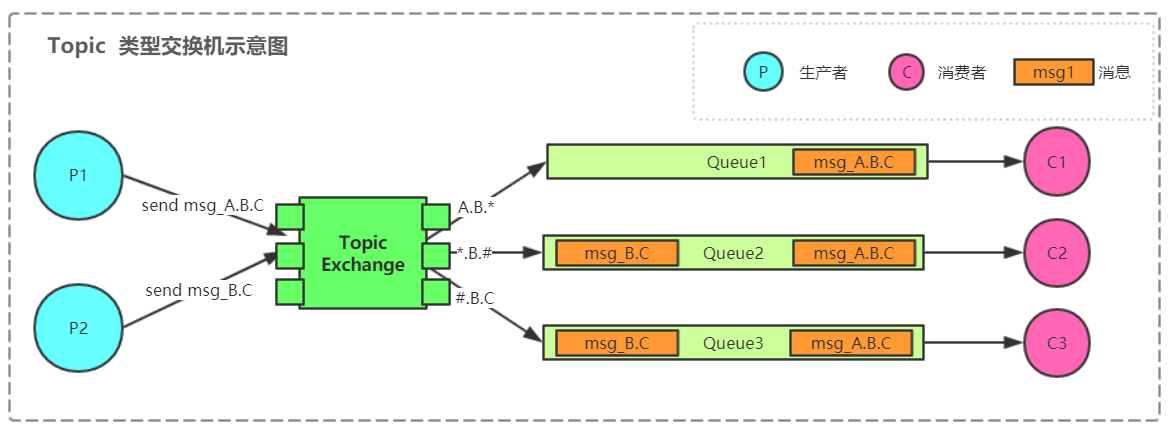
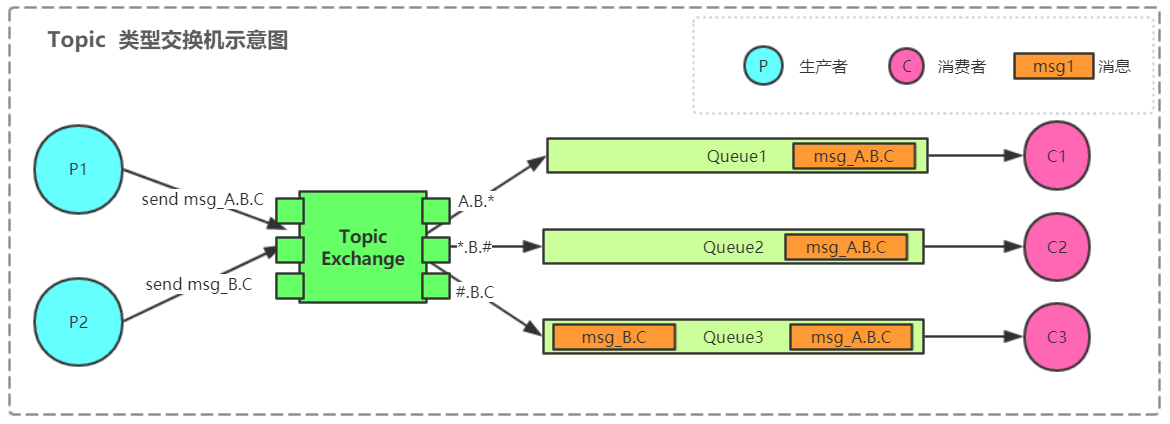
:sparkles: 添加rabbitmq topic 路由方式实现

diff --git a/rabbitmq/rabbitmq-chapter1-simple/src/main/java/com/wuhulala/rabbitmq/chapter1/exchange/topic/TopicConsumer2.java b/rabbitmq/rabbitmq-chapter1-simple/src/main/java/com/wuhulala/rabbitmq/chapter1/exchange/topic/TopicConsumer2.java
@@ -1,0 +1,40 @@
+package com.wuhulala.rabbitmq.chapter1.exchange.topic;
+
+import com.rabbitmq.client.AMQP;
+import com.rabbitmq.client.Channel;
+import com.rabbitmq.client.Consumer;
+import com.rabbitmq.client.DefaultConsumer;
+import com.rabbitmq.client.Envelope;
+import com.wuhulala.rabbitmq.chapter1.util.ChannelFactory;
+
+import java.io.IOException;
+
+import static com.wuhulala.rabbitmq.chapter1.exchange.topic.Constants.C_ROUTING_KEY_2;
+import static com.wuhulala.rabbitmq.chapter1.exchange.topic.Constants.TOPIC_EXCHANGE_NAME;
+
+public class TopicConsumer2 {
+
+    public static final String QUEUE_NAME = "queue2";
+
+
+    public static void main(String[] args) throws Exception {
+
+        Channel channel = ChannelFactory.getChannelInstance();
+
+        //创建queue2队列
+        channel.queueDeclare(QUEUE_NAME, false, false, false, null);
+        System.out.println("consumer2 Waiting for msg use routingKey[" + C_ROUTING_KEY_2  + "]");
+        //创建消费者，并接受消息
+        Consumer consumer = new DefaultConsumer(channel) {
+            @Override
+            public void handleDelivery(String consumerTag, Envelope envelope, AMQP.BasicProperties properties, byte[] body)
+                    throws IOException {
+                String msg = new String(body, "UTF-8");
+                System.out.println("consumer2 -> Received is = '" + msg + "'");
+            }
+        };
+        channel.queueBind(QUEUE_NAME, TOPIC_EXCHANGE_NAME, C_ROUTING_KEY_2);
+        channel.basicConsume(QUEUE_NAME, true, consumer);
+    }
+
+}

diff --git a/rabbitmq/rabbitmq-chapter1-simple/src/main/java/com/wuhulala/rabbitmq/chapter1/exchange/topic/TopicConsumer3.java b/rabbitmq/rabbitmq-chapter1-simple/src/main/java/com/wuhulala/rabbitmq/chapter1/exchange/topic/TopicConsumer3.java
@@ -1,0 +1,40 @@
+package com.wuhulala.rabbitmq.chapter1.exchange.topic;
+
+import com.rabbitmq.client.AMQP;
+import com.rabbitmq.client.Channel;
+import com.rabbitmq.client.Consumer;
+import com.rabbitmq.client.DefaultConsumer;
+import com.rabbitmq.client.Envelope;
+import com.wuhulala.rabbitmq.chapter1.util.ChannelFactory;
+
+import java.io.IOException;
+
+import static com.wuhulala.rabbitmq.chapter1.exchange.topic.Constants.C_ROUTING_KEY_3;
+import static com.wuhulala.rabbitmq.chapter1.exchange.topic.Constants.TOPIC_EXCHANGE_NAME;
+
+public class TopicConsumer3 {
+
+    public static final String QUEUE_NAME = "queue3";
+
+
+    public static void main(String[] args) throws Exception {
+
+        Channel channel = ChannelFactory.getChannelInstance();
+
+        //创建queue3队列
+        channel.queueDeclare(QUEUE_NAME, false, false, false, null);
+        System.out.println("consumer3 Waiting for msg use routingKey[" + C_ROUTING_KEY_3  + "]");
+        //创建消费者，并接受消息
+        Consumer consumer = new DefaultConsumer(channel) {
+            @Override
+            public void handleDelivery(String consumerTag, Envelope envelope, AMQP.BasicProperties properties, byte[] body)
+                    throws IOException {
+                String msg = new String(body, "UTF-8");
+                System.out.println("consumer3 -> Received is = '" + msg + "'");
+            }
+        };
+        channel.queueBind(QUEUE_NAME, TOPIC_EXCHANGE_NAME, C_ROUTING_KEY_3);
+        channel.basicConsume(QUEUE_NAME, true, consumer);
+    }
+
+}

diff --git a/rabbitmq/rabbitmq-chapter1-simple/src/main/java/com/wuhulala/rabbitmq/chapter1/exchange/topic/TopicConsumer1.java b/rabbitmq/rabbitmq-chapter1-simple/src/main/java/com/wuhulala/rabbitmq/chapter1/exchange/topic/TopicConsumer1.java
@@ -1,0 +1,39 @@
+package com.wuhulala.rabbitmq.chapter1.exchange.topic;
+
+import com.rabbitmq.client.AMQP;
+import com.rabbitmq.client.Channel;
+import com.rabbitmq.client.Consumer;
+import com.rabbitmq.client.DefaultConsumer;
+import com.rabbitmq.client.Envelope;
+import com.wuhulala.rabbitmq.chapter1.util.ChannelFactory;
+
+import java.io.IOException;
+
+import static com.wuhulala.rabbitmq.chapter1.exchange.topic.Constants.C_ROUTING_KEY_1;
+import static com.wuhulala.rabbitmq.chapter1.exchange.topic.Constants.TOPIC_EXCHANGE_NAME;
+
+public class TopicConsumer1 {
+
+    public static final String QUEUE_NAME = "queue1";
+
+    public static void main(String[] args) throws Exception {
+
+        Channel channel = ChannelFactory.getChannelInstance();
+
+        //创建queue1队列
+        channel.queueDeclare(QUEUE_NAME, false, false, false, null);
+        System.out.println("consumer1 Waiting for msg use routingKey[" + C_ROUTING_KEY_1  + "]");
+        //创建消费者，并接受消息
+        Consumer consumer = new DefaultConsumer(channel) {
+            @Override
+            public void handleDelivery(String consumerTag, Envelope envelope, AMQP.BasicProperties properties, byte[] body)
+                    throws IOException {
+                String msg = new String(body, "UTF-8");
+                System.out.println("consumer1 -> Received is = '" + msg + "'");
+            }
+        };
+        channel.queueBind(QUEUE_NAME, TOPIC_EXCHANGE_NAME, C_ROUTING_KEY_1);
+        channel.basicConsume(QUEUE_NAME, true, consumer);
+    }
+
+}

diff --git a/rabbitmq/rabbitmq-chapter1-simple/src/main/java/com/wuhulala/rabbitmq/chapter1/ProducerDemo.java b/rabbitmq/rabbitmq-chapter1-simple/src/main/java/com/wuhulala/rabbitmq/chapter1/ProducerDemo.java
@@ -5,9 +5,10 @@ import com.rabbitmq.client.Channel;
 import com.rabbitmq.client.Connection;
 import com.rabbitmq.client.ConnectionFactory;
 
+import static com.wuhulala.rabbitmq.chapter1.exchange.topic.Constants.TOPIC_EXCHANGE_NAME;
+
 public class ProducerDemo {
 
-    public static final String EXCHANGE_NAME = "wuhulala-exchanger";
 
     public static void main(String[] args) throws Exception {
         // 1. 创建连接工厂, 设置属性
@@ -26,14 +27,14 @@ public class ProducerDemo {
 
         // 3. 使用connection创建channel
         Channel channel = connection.createChannel();
-        channel.exchangeDeclare(EXCHANGE_NAME, "direct");
+        channel.exchangeDeclare(TOPIC_EXCHANGE_NAME, "direct");
 
         // 4. 通过channel发送消息
         long begin = System.currentTimeMillis();
         for (int i = 0; i < 10000000; i++) {
             String msg = "hello rabbitmq! ---- " + i;
             // 不指定exchange的情况下, 使用默认的exchange, routingKey与队列名相等
-            channel.basicPublish(EXCHANGE_NAME, "hello", null, msg.getBytes());
+            channel.basicPublish(TOPIC_EXCHANGE_NAME, "hello", null, msg.getBytes());
         }
         long end = System.currentTimeMillis();
         System.out.println("send used::: " + (end - begin) + "ms");

diff --git a/rabbitmq/rabbitmq-chapter1-simple/src/main/java/com/wuhulala/rabbitmq/chapter1/exchange/topic/TopicProducer2.java b/rabbitmq/rabbitmq-chapter1-simple/src/main/java/com/wuhulala/rabbitmq/chapter1/exchange/topic/TopicProducer2.java
@@ -1,0 +1,33 @@
+package com.wuhulala.rabbitmq.chapter1.exchange.topic;
+
+import com.rabbitmq.client.Channel;
+import com.wuhulala.rabbitmq.chapter1.util.ChannelFactory;
+
+import static com.wuhulala.rabbitmq.chapter1.exchange.topic.Constants.P_ROUTING_KEY_2;
+
+public class TopicProducer2 {
+
+
+    public static void main(String[] args) throws Exception {
+
+
+        // 3. 使用connection创建channel
+        Channel channel = ChannelFactory.getChannelInstance();
+        channel.exchangeDeclare(Constants.TOPIC_EXCHANGE_NAME, "topic");
+
+        // 4. 通过channel发送消息
+        long begin = System.currentTimeMillis();
+        for (int i = 0; i < 1; i++) {
+            String msg = "msg_B.C";
+            System.out.println("send ::: " + msg);
+            channel.basicPublish(Constants.TOPIC_EXCHANGE_NAME, P_ROUTING_KEY_2, null, msg.getBytes());
+        }
+        long end = System.currentTimeMillis();
+        System.out.println("send used::: " + (end - begin) + "ms");
+
+        // 5. 关闭连接
+        channel.close();
+        channel.getConnection().close();
+    }
+
+}

diff --git a/rabbitmq/rabbitmq-chapter1-simple/src/main/java/com/wuhulala/rabbitmq/chapter1/util/ChannelFactory.java b/rabbitmq/rabbitmq-chapter1-simple/src/main/java/com/wuhulala/rabbitmq/chapter1/util/ChannelFactory.java
@@ -1,0 +1,39 @@
+package com.wuhulala.rabbitmq.chapter1.util;
+
+import com.rabbitmq.client.Channel;
+import com.rabbitmq.client.Connection;
+import com.rabbitmq.client.ConnectionFactory;
+import org.slf4j.Logger;
+import org.slf4j.LoggerFactory;
+
+/**
+ * 0_0 o^o
+ *
+ * @author wuhulala<br>
+ * @date 2019/5/26<br>
+ * @description o_o<br>
+ * @since v1.0<br>
+ */
+public class ChannelFactory {
+
+    private static final Logger logger = LoggerFactory.getLogger(ChannelFactory.class);
+
+    public static Channel getChannelInstance() {
+        // 1. 创建连接工厂, 设置属性
+        ConnectionFactory factory = new ConnectionFactory();
+        factory.setHost("localhost");
+        factory.setPort(5672);
+        factory.setVirtualHost("/");
+
+        try {
+            Connection conn = factory.newConnection();
+            //创建消息通道
+            return conn.createChannel();
+        } catch (Exception e) {
+            logger.error("创建channel失败", e);
+            throw new RuntimeException("创建channel失败,请检查配置参数", e);
+        }
+
+    }
+
+}

diff --git a/rabbitmq/rabbitmq-chapter1-simple/src/main/java/com/wuhulala/rabbitmq/chapter1/exchange/topic/TopicProducer1.java b/rabbitmq/rabbitmq-chapter1-simple/src/main/java/com/wuhulala/rabbitmq/chapter1/exchange/topic/TopicProducer1.java
@@ -1,0 +1,32 @@
+package com.wuhulala.rabbitmq.chapter1.exchange.topic;
+
+import com.rabbitmq.client.Channel;
+import com.wuhulala.rabbitmq.chapter1.util.ChannelFactory;
+
+import static com.wuhulala.rabbitmq.chapter1.exchange.topic.Constants.P_ROUTING_KEY_1;
+
+public class TopicProducer1 {
+
+
+    public static void main(String[] args) throws Exception {
+
+
+        // 3. 使用connection创建channel
+        Channel channel = ChannelFactory.getChannelInstance();
+        channel.exchangeDeclare(Constants.TOPIC_EXCHANGE_NAME, "topic");
+
+        // 4. 通过channel发送消息
+        long begin = System.currentTimeMillis();
+        for (int i = 0; i < 1; i++) {
+            String msg = "msg1_A.B.C";
+            System.out.println("send ::: " + msg);
+            channel.basicPublish(Constants.TOPIC_EXCHANGE_NAME, P_ROUTING_KEY_1, null, msg.getBytes());
+        }
+        long end = System.currentTimeMillis();
+
+        // 5. 关闭连接
+        channel.close();
+        channel.getConnection().close();
+    }
+
+}

diff --git a/rabbitmq/rabbitmq-chapter1-simple/src/main/java/com/wuhulala/rabbitmq/chapter1/exchange/topic/Constants.java b/rabbitmq/rabbitmq-chapter1-simple/src/main/java/com/wuhulala/rabbitmq/chapter1/exchange/topic/Constants.java
@@ -1,0 +1,20 @@
+package com.wuhulala.rabbitmq.chapter1.exchange.topic;
+
+/**
+ * 0_0 o^o
+ *
+ * @author wuhulala<br>
+ * @date 2019/5/25<br>
+ * @description o_o<br>
+ * @since v1.0<br>
+ */
+public interface Constants {
+
+    String TOPIC_EXCHANGE_NAME = "topic-exchange";
+    String P_ROUTING_KEY_1 = "A.B.C";
+    String P_ROUTING_KEY_2 = "B.C";
+    String C_ROUTING_KEY_1 = "A.B.*";
+    String C_ROUTING_KEY_2 = "*.B.#";
+    String C_ROUTING_KEY_3 = "#.B.C";
+
+}

diff --git a/rabbitmq/rabbitmq-chapter1-simple/src/main/java/com/wuhulala/rabbitmq/chapter1/ConsumerDemo.java b/rabbitmq/rabbitmq-chapter1-simple/src/main/java/com/wuhulala/rabbitmq/chapter1/ConsumerDemo.java
@@ -10,10 +10,10 @@ import com.rabbitmq.client.Envelope;
 
 import java.io.IOException;
 
-import static com.wuhulala.rabbitmq.chapter1.ProducerDemo.EXCHANGE_NAME;
 
 public class ConsumerDemo {
     private final static String QUEUE_NAME = "hello";
+    private final static String EXCHANGE_NAME = "wuhulala-exchange";
 
     public static void main(String[] args) throws Exception {
         // 1. 创建连接工厂, 设置属性

diff --git a/rabbitmq/rabbitmq-chapter1-simple/README.md b/rabbitmq/rabbitmq-chapter1-simple/README.md
@@ -38,8 +38,25 @@
 
 1. 当`生产者P1`发送`RoutingKey`为`A.B.C`的消息`msg_A.B.C`时，这时候`Direct Exchange`会将消息转发给`C1`,`C2`,`C3`，
 
-2. 当`生产者P2`发送`RoutingKey`为`B.C`的消息`msg_A.B.C`时，这时候`Direct Exchange`会将消息转发给`C2`,`C3`，
+2. 当`生产者P2`发送`RoutingKey`为`B.C`的消息`msg_A.B.C`时，这时候`Direct Exchange`只会将消息转发给,`C3`，
 
+#### 代码示例
+
+定义以上图的标准
+```
+public interface Constants {
+
+    String TOPIC_EXCHANGE_NAME = "topic-exchange";
+    String P_ROUTING_KEY_1 = "A.B.C";
+    String P_ROUTING_KEY_2 = "B.C";
+    String C_ROUTING_KEY_1 = "A.B.*";
+    String C_ROUTING_KEY_2 = "*.B.#";
+    String C_ROUTING_KEY_3 = "#.B.C";
+
+}
+```
+代码位置
+[点击查看](https://github.com/wuhulala/mq-collection/tree/master/rabbitmq/rabbitmq-chapter1-simple/src/main/java/com/wuhulala/rabbitmq/chapter1/exchange/topic)
 ### header
 
 > headers 类型的交换器不依赖于路由键的匹配规则来路由消息，而是根据发送的消息内容中的 headers 属性进行匹配。在绑定队列和交换器时制定一组键值对， 当发送消息到交换器时， RabbitMQ 会获取到该消息的 headers (也是一个键值对的形式)，对比其中的键值对是否完全匹配队列和交换器绑定时指定的键值对，如果完全匹配则消息会路由到该队列，否则不会路由到该队列。 headers 类型的交换器性能会很差，而且也不实用，基本上不会看到它的存在。
